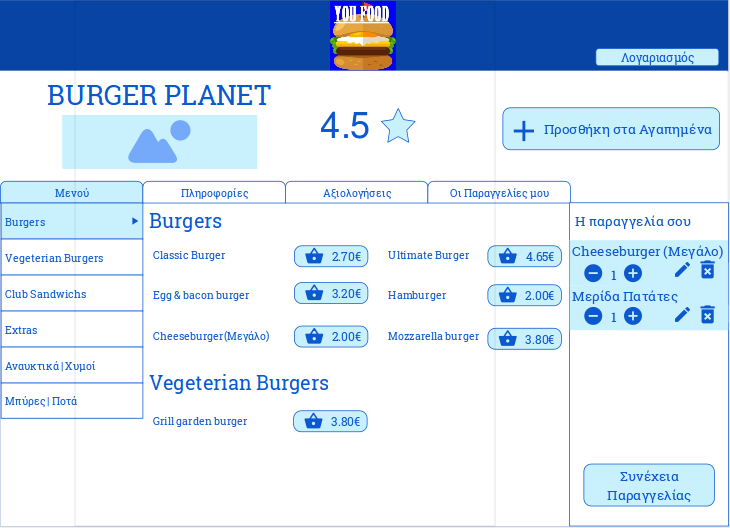
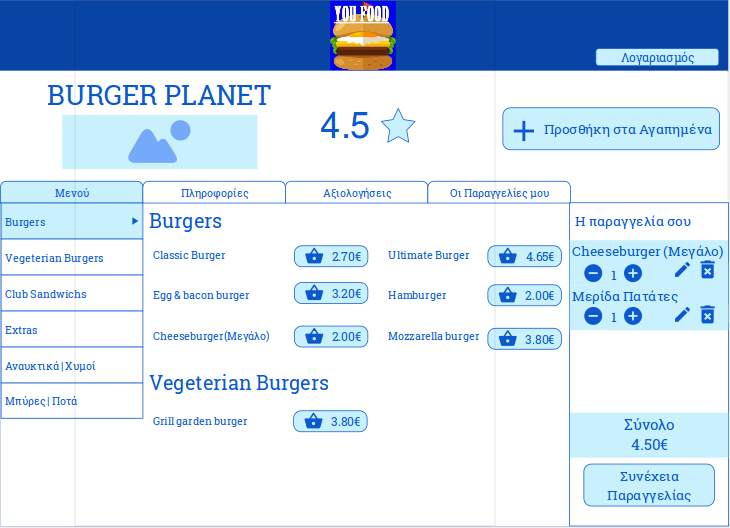
added mockups to storyboard

diff --git a/documentation/demo-storyboard.md b/documentation/demo-storyboard.md
@@ -1,24 +1,29 @@
 # Storyboard 
 
-*Σενάρια Χρήσης και ιστορίες Χρηστών*
+##Login Page
+![Login Page](../images/mockup_start_page.png)
 
-**ΣΧΙΧ-1** 
+##Signup Page
+![Signup Page](../images/mockup_start_page1.png)
 
-__Feature: Εγγραφή του χρήστη στο σύστημα__    
-  Ως νέος χρήστης   
-  Έτσι ώστε να μπορώ να χρησιμοποιώ την υπηρεσία  
-  Θέλω να δημιουργήσω ένα λογαριασμό με τα στοιχεία μου.
+##Βασική Σελίδα
+![Βασική Σελίδα](../images/mockup_main_page1.png)
+![Βασική Σελίδα](../images/mockup_main_page2.png)
 
-__Scenario: Εγγραφή χρήστη__  
-  Δεδομένου ότι είμαι στην αρχική σελίδα   
-  Όταν ακολουθώ το "εγγραφή νέου χρήστη"   
-  Τότε θα πρέπει να είμαι στην σελίδα της εγγραφής νέου χρήστη   
-  Όταν συμπληρώνω το όνομα χρήστη , τον κωδικό, το επώνυμο, την διεύθυνση, το τηλέφωνο μου και το email μου.   
-  Και πατάω "συνέχεια"   
-  Τότε θα πρέπει να είναι στην σελίδα ότι η εγγραφή ολοκληρώθηκε με επιτυχία και ένα e-mail επιβεβαίωσης έχει αποσταλεί στο     e-mail μου.
-  
-**ΣΧΙΧ-2**   
+##Σελίδα Λογαριασμού Χρήστη
+![Logariasmos](../images/mockup_profile1.png)
+![Logariasmos](../images/mockup_profile2.png)
+![Logariasmos](../images/mockup_profile3.png)
+![Logariasmos](../images/mockup_profile4.png)
+![Logariasmos](../images/mockup_profile5.png)
 
-__Feature: __    
-  
-__Scenario: __  
+##Σελίδα Παραγγελίας
+![Order Page](../images/mockup_order_page1.png)
+![Order Page](../images/mockup_order_page2.png)
+![Order Page](../images/mockup_order_page3.png)
+![Order Page](../images/mockup_order_page4.png)
+![Order Page](../images/mockup_order_page5.png)
+![Order Page](../images/mockup_order_page6.png)
+![Order Page](../images/mockup_order_page7.png)
+![Order Page](../images/mockup_order_page8.png)
+![Order Page](../images/mockup_order_page9.png)
